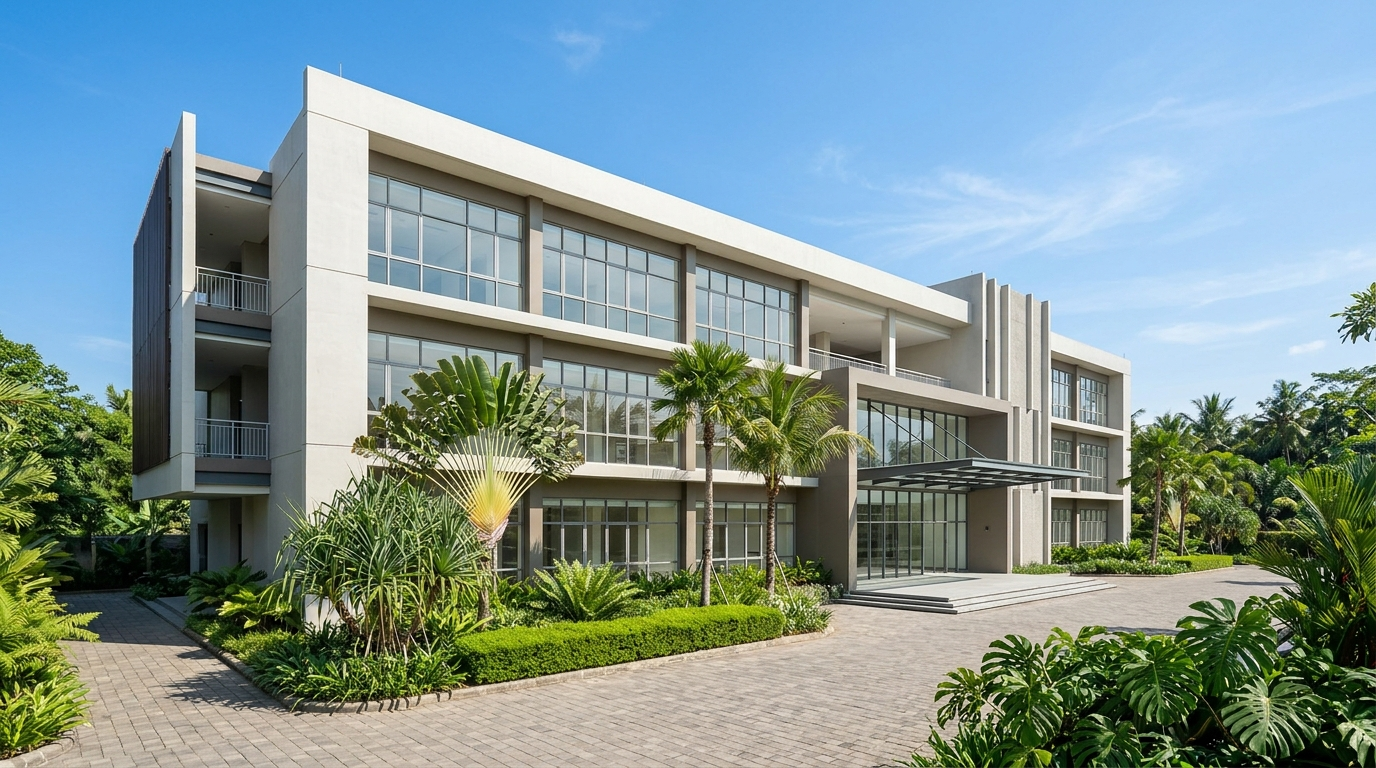
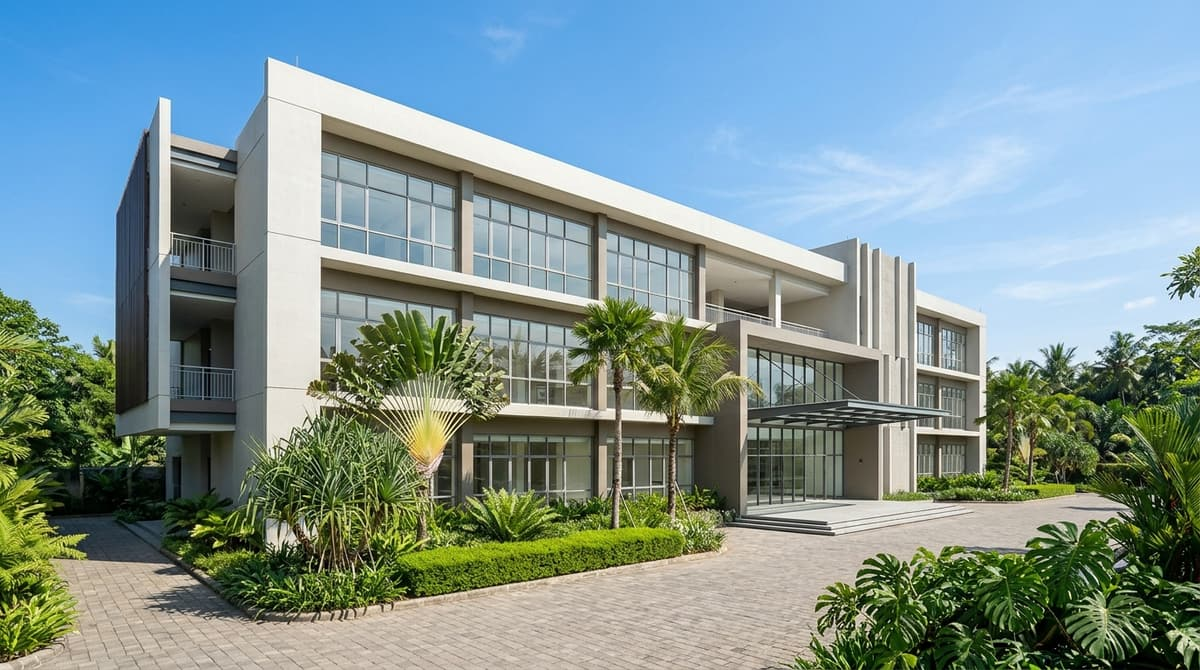
perf(login): compress school-building.jpg by 86% and add instant blur placeholder

diff --git a/src/app/login/page.tsx b/src/app/login/page.tsx
@@ -47,6 +47,9 @@ function GoogleIcon({ className }: { className?: string }) {
   );
 }
 
+const SCHOOL_BUILDING_BLUR_DATA_URL =
[1 lines of base64/hex data omitted]
+
 export default function LoginPage() {
   const router = useRouter();
   const [username, setUsername] = useState("");
@@ -137,11 +140,14 @@ export default function LoginPage() {
               fill
               sizes="50vw"
               priority
-              className="object-cover opacity-30 mix-blend-luminosity filter contrast-125 brightness-90"
+              unoptimized
+              placeholder="blur"
+              blurDataURL={SCHOOL_BUILDING_BLUR_DATA_URL}
+              className="object-cover opacity-40 mix-blend-luminosity filter contrast-125 brightness-95"
               onError={() => setBgLoaded(false)}
             />
           )}
-          <div className="absolute inset-0 bg-gradient-to-b from-[#0a192f]/75 via-[#1e3a8a]/70 to-[#0f172a]/95" />
+          <div className="absolute inset-0 bg-gradient-to-b from-[#0a192f]/70 via-[#1e3a8a]/65 to-[#0f172a]/90" />
         </div>
 
         {/* Brand Header Kiri */}
